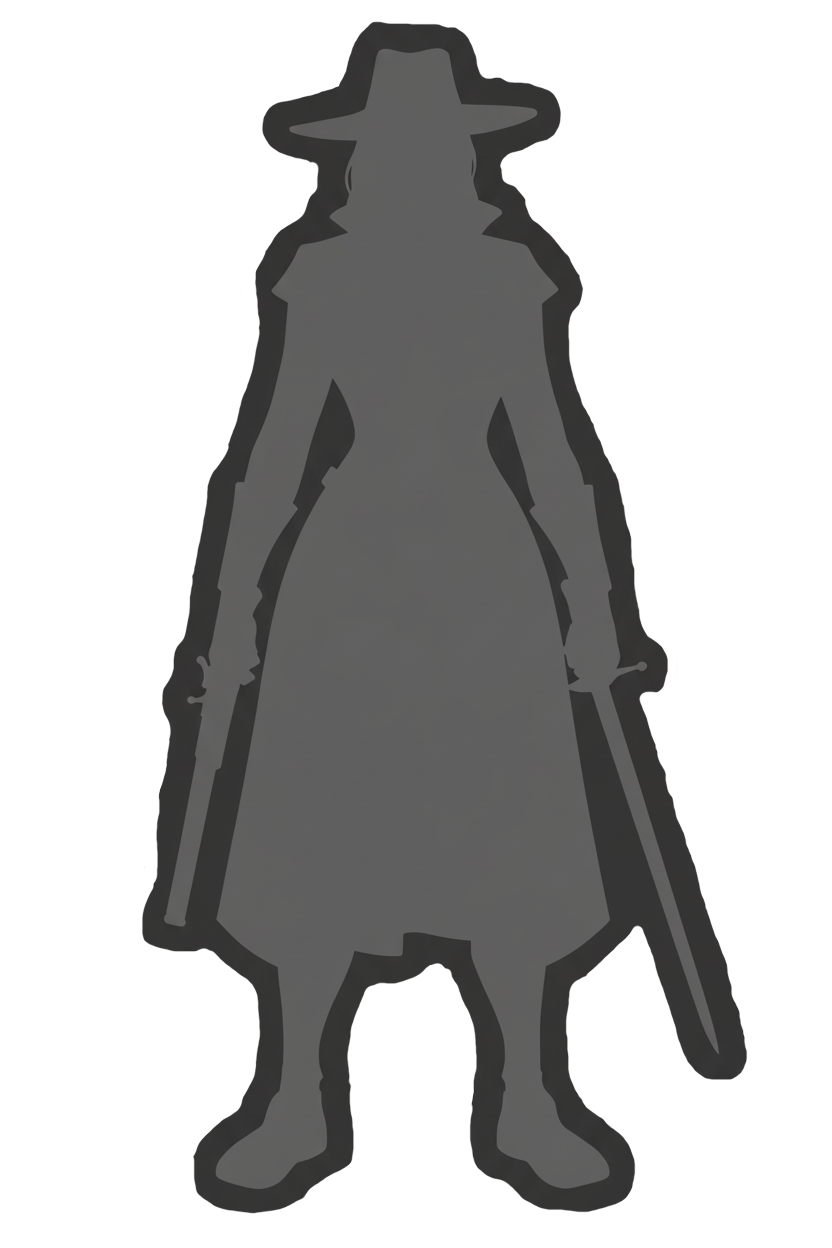
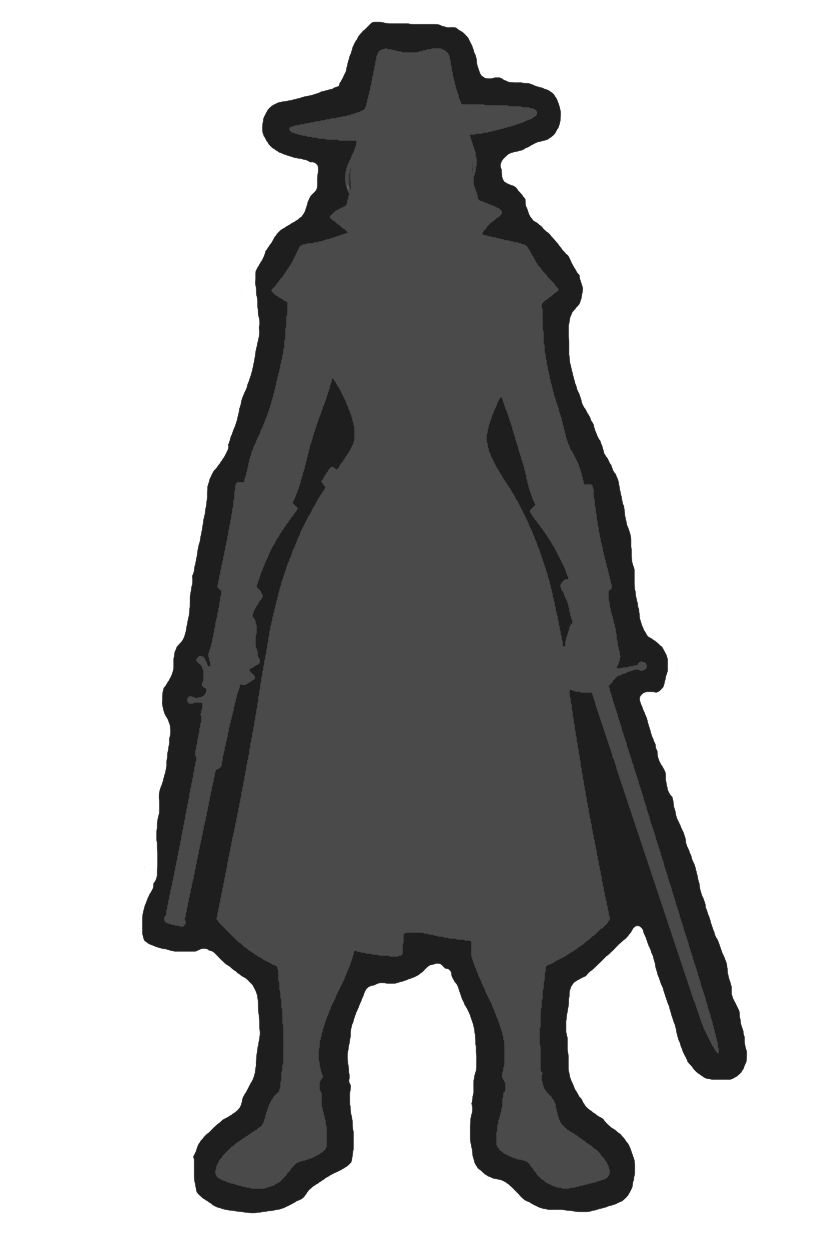
update dark

diff --git a/Savage Worlds - Solomon Kane/SavageWorldsGraphPaper.css b/Savage Worlds - Solomon Kane/SavageWorldsGraphPaper.css
@@ -24,7 +24,7 @@
   background-image: url(https://raw.githubusercontent.com/Onaldanm/roll20-character-sheets/solomon-kane-jdr/Savage%20Worlds%20-%20Solomon%20Kane/img/male_solomon_silouette.png) !important;
 }
 * .charsheet .sheet-silhouette__image {
-  background-image: url(https://raw.githubusercontent.com/Onaldanm/roll20-character-sheets/solomon-kane-jdr/Savage%20Worlds%20-%20Solomon%20Kane/img/female_solomon_silouette.png);
+  background-image: url(https://raw.githubusercontent.com/Onaldanm/roll20-character-sheets/solomon-kane-jdr/Savage%20Worlds%20-%20Solomon%20Kane/img/female_solomon_silhouette.png);
   background-repeat: no-repeat;
   background-size: contain;
 }
@@ -57,7 +57,7 @@
 }
 .sheet-darkmode * .charsheet .sheet-silhouette__image,
 .sheet-rolltemplate-darkmode .charsheet .sheet-silhouette__image {
-  background-image: url(https://raw.githubusercontent.com/Onaldanm/roll20-character-sheets/solomon-kane-jdr/Savage%20Worlds%20-%20Solomon%20Kane/img/female_solomon_silouette_dark.png);
+  background-image: url(https://raw.githubusercontent.com/Onaldanm/roll20-character-sheets/solomon-kane-jdr/Savage%20Worlds%20-%20Solomon%20Kane/img/female_solomon_silhouette_dark.png);
   background-repeat: no-repeat;
   background-size: contain;
 }

diff --git a/Savage Worlds - Solomon Kane/browser_preview.html b/Savage Worlds - Solomon Kane/browser_preview.html
@@ -27,6 +27,11 @@
 * .charsheet .sheet-silhouette__switch:checked + .sheet-silhouette__image {
   background-image: url(https://raw.githubusercontent.com/Onaldanm/roll20-character-sheets/solomon-kane-jdr/Savage%20Worlds%20-%20Solomon%20Kane/img/male_solomon_silouette.png) !important;
 }
+* .charsheet .sheet-silhouette__image {
+  background-image: url(https://raw.githubusercontent.com/Onaldanm/roll20-character-sheets/solomon-kane-jdr/Savage%20Worlds%20-%20Solomon%20Kane/img/female_solomon_silhouette.png);
+  background-repeat: no-repeat;
+  background-size: contain;
+}
 
 .sheet-darkmode *,
 .sheet-rolltemplate-darkmode {

diff --git a/Savage Worlds - Solomon Kane/source/styles/themes/_dark.scss b/Savage Worlds - Solomon Kane/source/styles/themes/_dark.scss
@@ -27,7 +27,7 @@
     }
 
     .charsheet .sheet-silhouette__image {
-        background-image: url(https://raw.githubusercontent.com/Onaldanm/roll20-character-sheets/solomon-kane-jdr/Savage%20Worlds%20-%20Solomon%20Kane/img/female_solomon_silouette_dark.png);
+        background-image: url(https://raw.githubusercontent.com/Onaldanm/roll20-character-sheets/solomon-kane-jdr/Savage%20Worlds%20-%20Solomon%20Kane/img/female_solomon_silhouette_dark.png);
         background-repeat: no-repeat;
         background-size: contain;
     }

diff --git a/Savage Worlds - Solomon Kane/source/styles/themes/_default.scss b/Savage Worlds - Solomon Kane/source/styles/themes/_default.scss
@@ -26,7 +26,7 @@
     }
 
     .charsheet .sheet-silhouette__image {
-        background-image: url(https://raw.githubusercontent.com/Onaldanm/roll20-character-sheets/solomon-kane-jdr/Savage%20Worlds%20-%20Solomon%20Kane/img/female_solomon_silouette.png);
+        background-image: url(https://raw.githubusercontent.com/Onaldanm/roll20-character-sheets/solomon-kane-jdr/Savage%20Worlds%20-%20Solomon%20Kane/img/female_solomon_silhouette.png);
         background-repeat: no-repeat;
         background-size: contain;
     }
